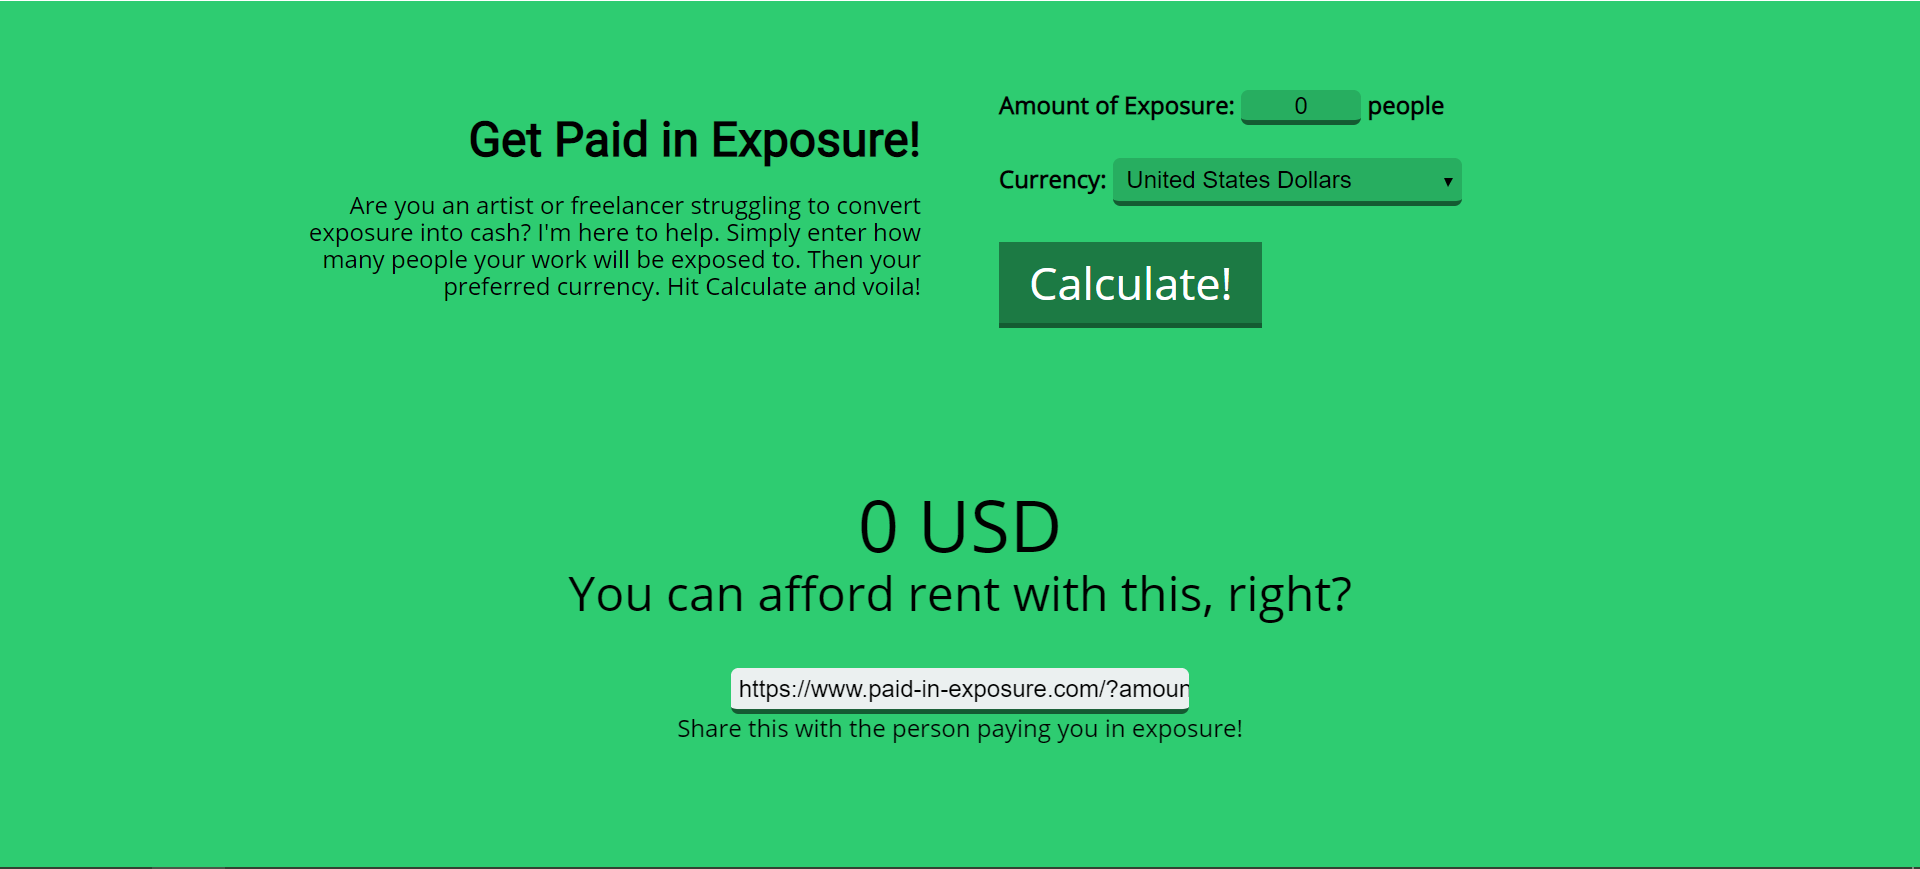
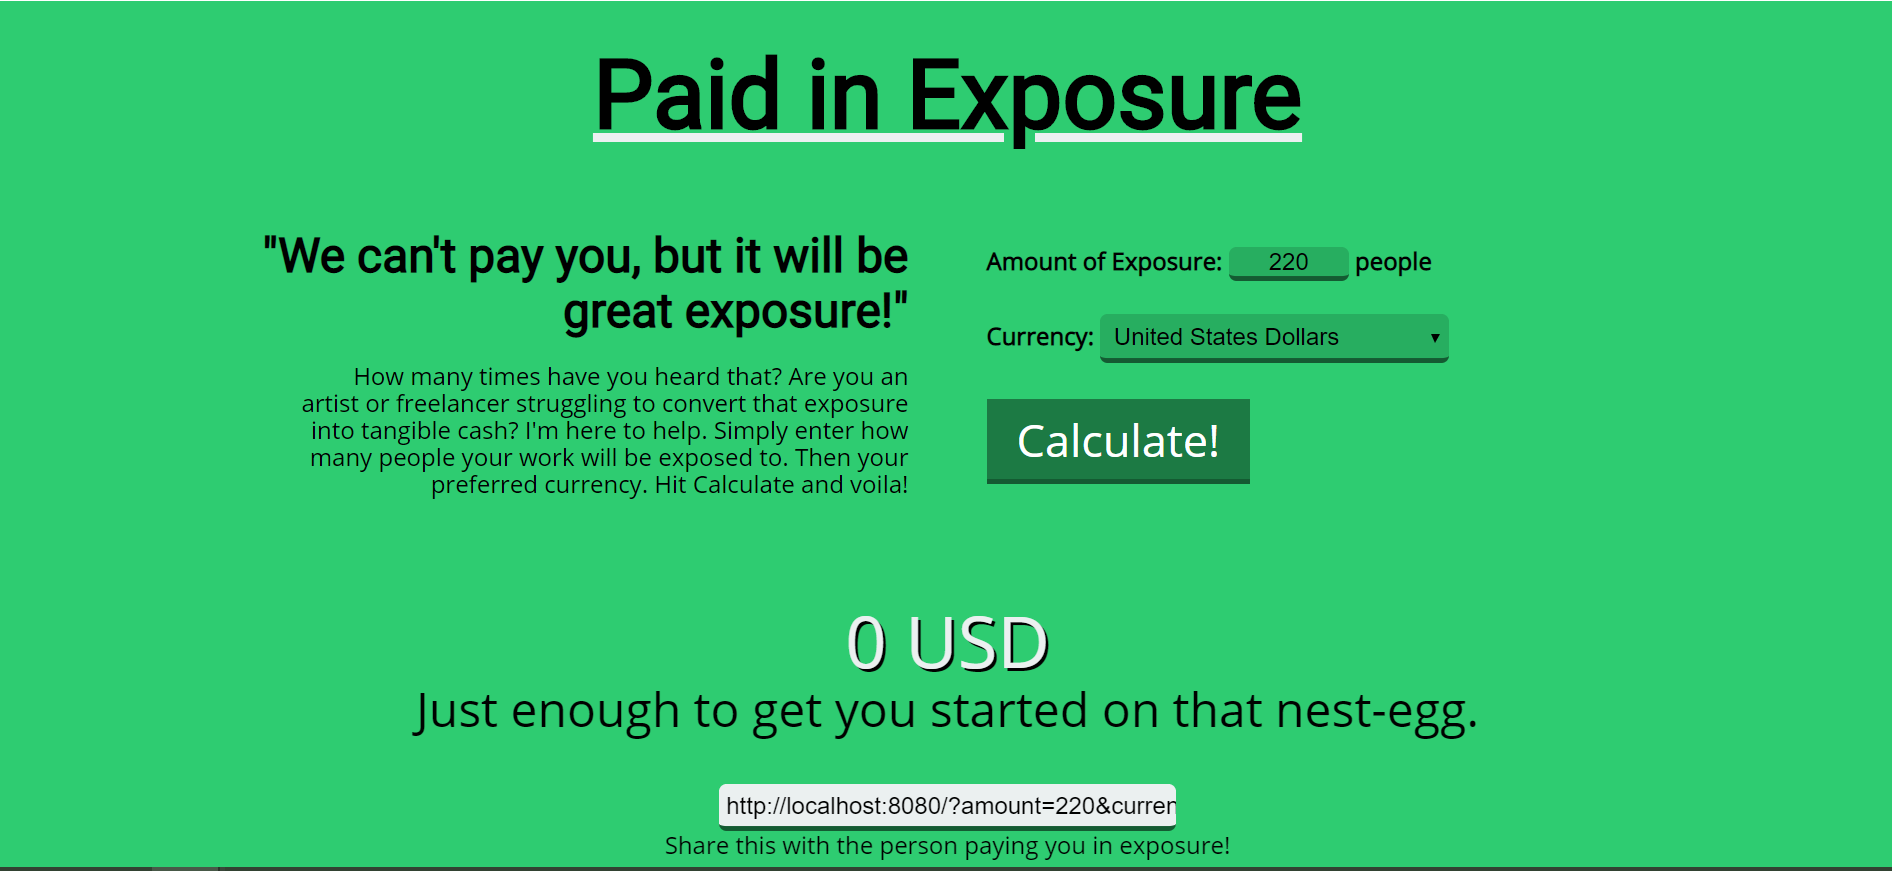
PIE updates

Changed region(s): [[0.1247, 0.2175, 0.7796, 0.87], [0.2495, 0.0621, 0.7796, 0.2486], [0.0, 0.901, 1.0, 1.0]]

diff --git a/src/data/gridListData.js b/src/data/gridListData.js
@@ -21,7 +21,7 @@ export default [
 	},
 	{
 		img: 'images/exposure.png',
-		title: 'Get Paid in Exposure!',
+		title: 'Paid in Exposure',
 		site: 'https://www.paid-in-exposure.com',
 		tech: reactIcon
 	}
